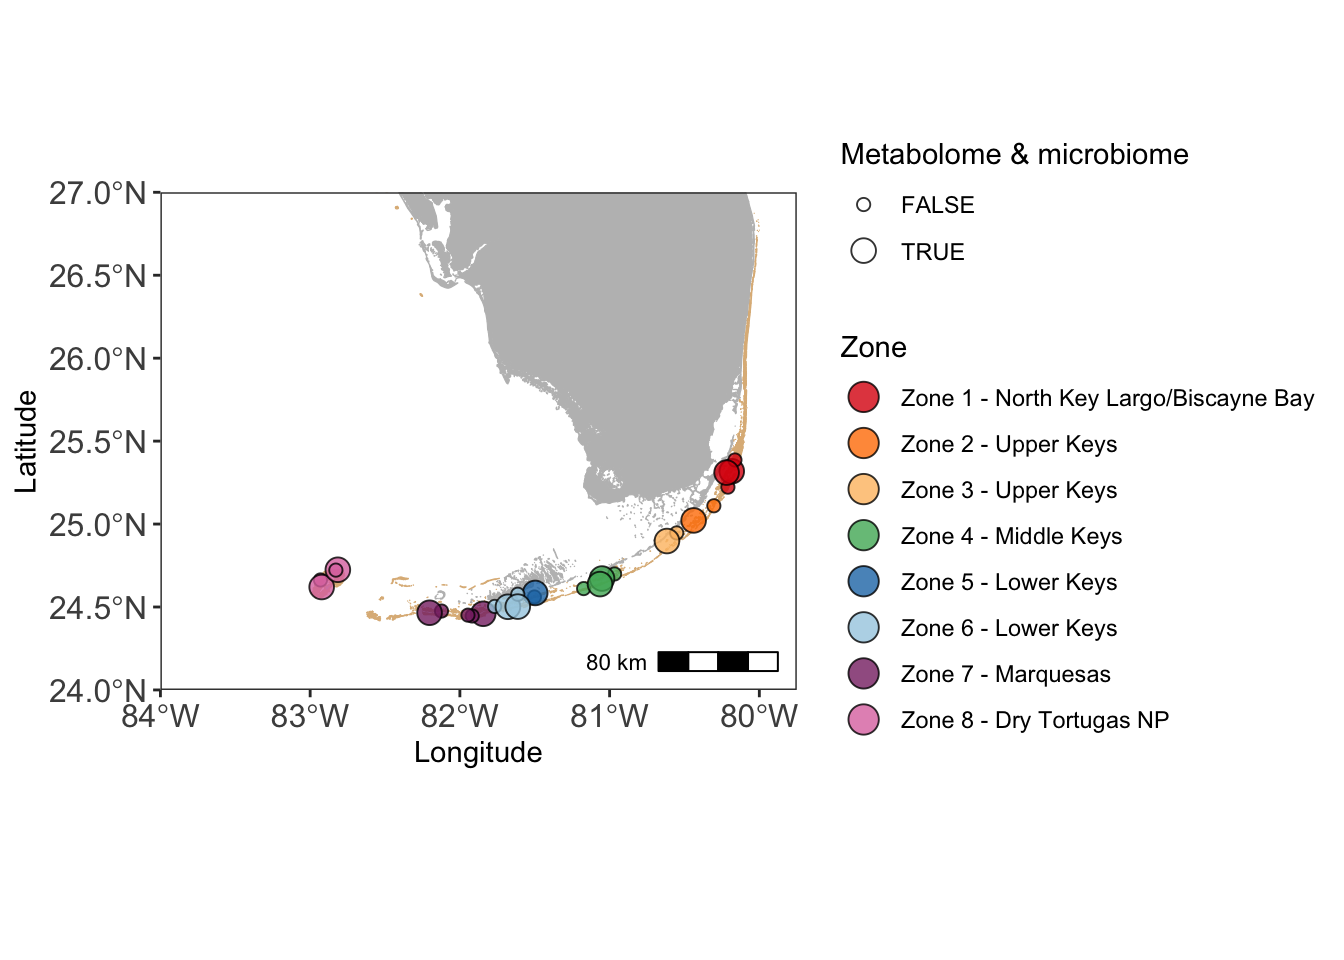
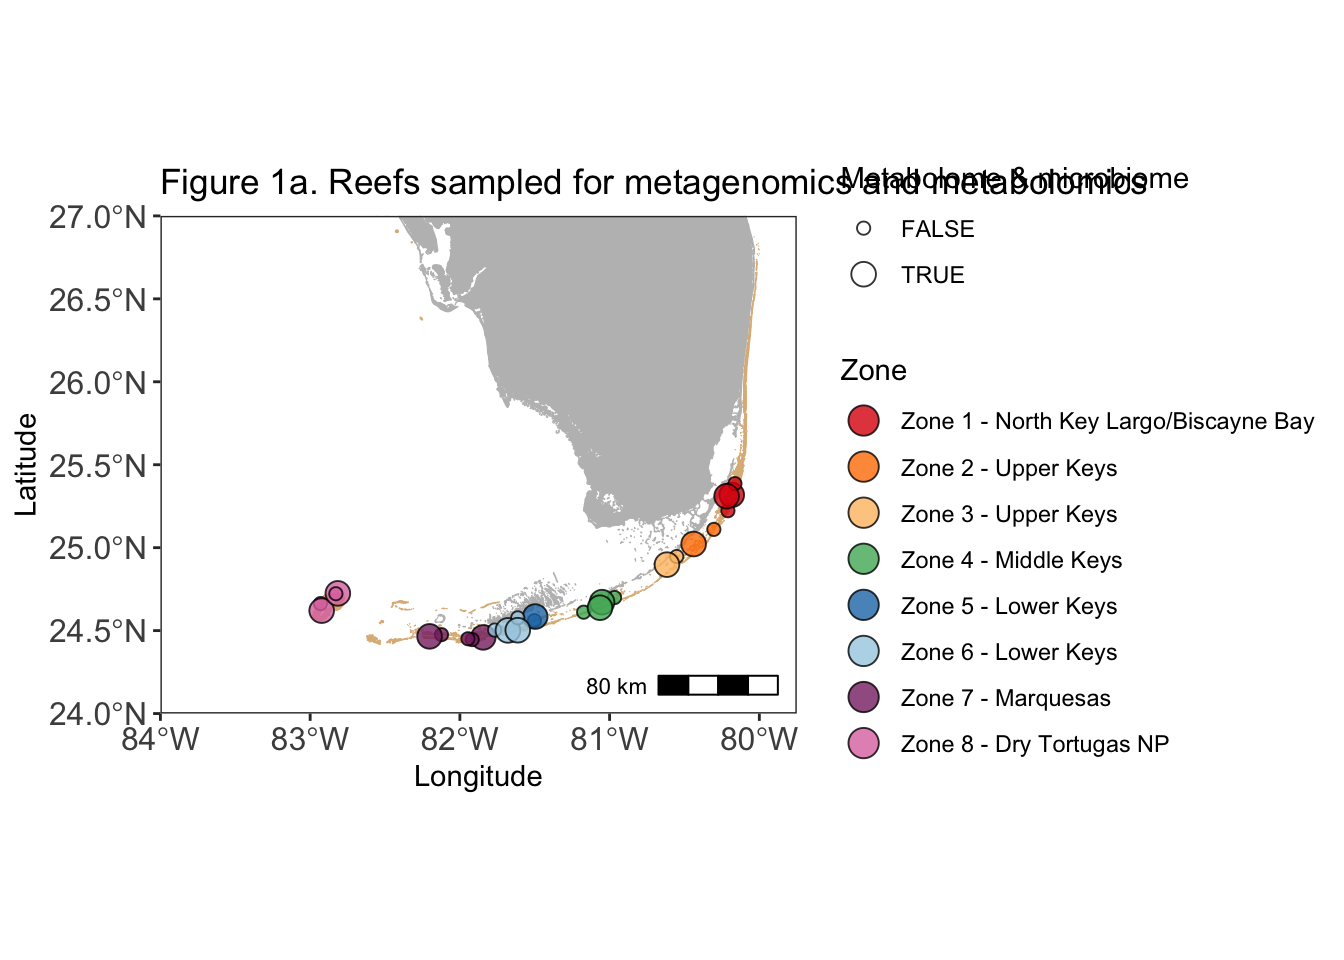
add figure 1 code

diff --git a/Code_to_reproduce_figures.md b/Code_to_reproduce_figures.md
@@ -6,10 +6,15 @@ date: "2023-02-14"
 output:
   html_document:
     keep_md: true
+    toc: true
+    toc_depth: 3
+    number_sections: true
+    theme: united
 ---
 
 
 
+# Setup
 ### Install necessary packages
 
 
@@ -24,6 +29,7 @@ library(tidyverse); packageVersion("tidyverse")
 library(lubridate); packageVersion("lubridate")
 
 # For microbiome/metagenome analysis
+library(vegan); packageVersion("vegan")
 
 # For visualization
 library(ggplot2); packageVersion("ggplot2")
@@ -35,8 +41,8 @@ theme_set(theme_bw()) # get rid of the gray background
 These tables are required for the subsequent analyses. Load **all** of them prior to generating figures. These tables are generated by the `Code_to_prep_data` document found at **THIS LINK NEEDS TO BE ADDED**. 
 
 The shapefiles for making the map can be downloaded at the following links:
-United States and Territories: https://earthworks.stanford.edu/catalog/stanford-vt021tk4894 
-Florida Hard Bottom and Coral Habitats: https://geodata.myfwc.com/datasets/myfwc::coral-and-hard-bottom-habitats-in-florida/about
+United States and Territories <https://earthworks.stanford.edu/catalog/stanford-vt021tk4894> 
+Florida Hard Bottom and Coral Habitats <https://geodata.myfwc.com/datasets/myfwc::coral-and-hard-bottom-habitats-in-florida/about>
 
 
 ```r
@@ -46,6 +52,38 @@ metadata <- read.table("data/FLK2019_environmental_data_for_R.txt", sep = "\t", 
 # path to the shapefiles. Download the shapefiles linked above and change the path to use this code
 usa <- st_read("~/Documents/Apprill_lab/USVI_Projects/TideExpt/USVItideGitHub/Shapefile_for_Map/", "vt021tk4894") 
 fcr <- st_read("~/Google Drive (cbecker@whoi.edu) (not syncing)/Alucia 2019/Site Maps/Coral_and_Hard_Bottom_Habitats_in_Florida/")
+```
+
+Taxonomic microbiome data (16S rRNA gene abundances)
+Import the data that has been filtered for contaminants and low abundance reads
+
+```r
+ASV_16S <- read.table("data/ASV_MiSeq_nochloromito.filt.txt", sep = "\t", row.names = 1, header = TRUE)
+taxa_16S <- as.matrix(read.table("data/taxonomy_MiSeq_nochloromito.filt.txt", sep = "\t", row.names = 1, header = TRUE))
+metadata_16S <- read.table("data/metadata_MiSeq_16S.txt", sep = "\t", header = TRUE)
+```
+
+Functional metagenome data (shotgun metagenomics)
+Import the data that has already been low-abundance filtered
+
+```r
+count_MG <- read.delim("data/Fxn_Count_low-abund-filt.txt", sep = "\t", header = TRUE, row.names = 1)
+colnames(count_MG) <- str_replace_all(colnames(count_MG), pattern = "[X]", "") #remove the X from column names
+
+fxns_MG <- as.matrix(read.table("data/Fxn_low-abund-filt.txt", sep = "\t", row.names = 1, header = TRUE, na.strings = "NA"))
+metadata_MG <- read.table("data/Fxn_metadata-filt.txt", sep = "\t", header = TRUE, row.names = 1)
+class(metadata_MG$Sample) <- "character"
+```
+
+### Generate functions used in analysis
+
+```r
+#For Bray-Curtis NMDS, write a function that will turn data into relatuve abundances
+relabund <- function(sample) {
+  x = sample/sum(sample)
+  x = x*100
+  return(x)
+}
 ```
 
 
@@ -70,7 +108,7 @@ ggplot() +
   coord_sf(xlim = c(-84, -79.75), ylim = c(24, 27), expand = FALSE) +
   annotation_scale(location = "br", width_hint = 0.2) +
   theme(panel.grid.major = element_blank(), panel.background = element_rect(fill = "white")) +
-  labs(x = "Longitude", y = "Latitude", fill = "Zone", size = "Metabolome & microbiome") +
+  labs(x = "Longitude", y = "Latitude", fill = "Zone", size = "Metabolome & microbiome", title = "Figure 1a. Reefs sampled for metagenomics and metabolomics") +
   theme(axis.text = element_text(size = 12)) +
   scale_fill_manual(values = rainbowpal) +
   scale_size_manual(values = c(2, 4)) +
@@ -88,7 +126,7 @@ ggplot() +
   coord_sf(xlim = c(-83.25, -79.75), ylim = c(24, 27), expand = FALSE) +
   annotation_scale(location = "br", width_hint = 0.2) +
   theme(panel.grid.major = element_blank(), panel.background = element_rect(fill = "white")) +
-  labs(x = "Longitude", y = "Latitude", fill = "Zone") +
+  labs(x = "Longitude", y = "Latitude", fill = "Zone", title = "Figure 2a. Reefs (87) sampled for environmental data") +
   theme(axis.text = element_text(size = 12)) +
   scale_fill_manual(values = rainbowpal) +
   guides(fill = guide_legend(override.aes = list(size = 5)))
@@ -105,7 +143,7 @@ ggplot() +
   coord_sf(xlim = c(-83.25, -79.75), ylim = c(24, 27), expand = FALSE) +
   annotation_scale(location = "br", width_hint = 0.2) +
   theme(panel.grid.major = element_blank(), panel.background = element_rect(fill = "white")) +
-  labs(x = "Longitude", y = "Latitude", fill = "Zone") +
+  labs(x = "Longitude", y = "Latitude", fill = "Zone", title = "Supplementary Figure S4a - reefs with photomosaics") +
   theme(axis.text = element_text(size = 12)) +
   scale_fill_manual(values = rainbowpal) +
   guides(fill = guide_legend(override.aes = list(size = 5)))
@@ -115,7 +153,216 @@ ggplot() +
 
 # Figure 1 and Table 1
 
-### Distance-based redundancy analysis (dbRDA) reveals seawater microbiomes and metabolomes are explained by Florida’s Coral Reef biogeography and measured reef microbial and environmental parameters
+**Distance-based redundancy analysis (dbRDA) reveals seawater microbiomes and metabolomes are explained by Florida’s Coral Reef biogeography and measured reef microbial and environmental parameters**
 
-a) Map of 27 coral reefs (out of 85 reefs visited in total) sampled across 8 color-coded zones for either both seawater metabolomes and microbiomes (13 reefs) or only seawater microbiomes (27 reefs total) during June 2019. The dbRDA include (b) reef water taxonomic microbiome via 16S rRNA gene sequencing of Bacteria and Archaea, (c) functional microbiome via shotgun metagenomics, (d) targeted metabolomes, (e) untargeted metabolomes that ionized in negative mode, and (f) untargeted metabolomes that ionized in positive mode. Syn. = Synechococcus, Pro. = Prochlorococcus, Picoeuk. = picoeukaryotes, SCTLD = stony coral tissue loss disease, TOC = total organic carbon, Het. microbes = heterotrophic microbes.
+**Figure 1.** a) Map of 27 coral reefs (out of 85 reefs visited in total) sampled across 8 color-coded zones for either both seawater metabolomes and microbiomes (13 reefs) or only seawater microbiomes (27 reefs total) during June 2019. The dbRDA include (b) reef water taxonomic microbiome via 16S rRNA gene sequencing of Bacteria and Archaea, (c) functional microbiome via shotgun metagenomics, (d) targeted metabolomes, (e) untargeted metabolomes that ionized in negative mode, and (f) untargeted metabolomes that ionized in positive mode. Syn. = Synechococcus, Pro. = Prochlorococcus, Picoeuk. = picoeukaryotes, SCTLD = stony coral tissue loss disease, TOC = total organic carbon, Het. microbes = heterotrophic microbes.
+
+### Figure 1b. Taxonomic microbiome (16S rRNA gene)
+
+```r
+#include only metadata variables you want for the dbRDA analysis
+metaRDA <- metadata_16S %>%
+  select(Sample, Date, dayoftrip, Zone, ZoneNum, hbact, syn, pro, peuk, npoc, Dissolved.Oxygen.at.depth.percent.sat, SCTLDprevalence, Hard_coral, Fleshy_Macroalgae, Soft_coral, Turf_Algae, Sponge) %>%
+  filter(!is.na(ZoneNum)) %>%
+  mutate(MA_turf = Fleshy_Macroalgae + Turf_Algae)
+
+#Remove the samples from the ASV table that are no longer represented in the metadata tibble
+idx <- match(metaRDA$Sample, rownames(ASV_16S))
+ASV.sw <- ASV_16S[idx, ]
+
+ASV.sw <- apply(ASV.sw, 1, relabund) #Apply the relative abundance function (previous chunk) to each row (sample) in the ASV data frame
+ASV.sw <- ASV.sw[rowSums(ASV.sw) != 0, ] #get rid of ASVs that have no abundance in any samples
+ASV.sw <- t(ASV.sw) #make sure sample names are rows
+ASV.sw.log <- log(ASV.sw+1) #Log transform the realtive abundance data, where I add a 1 pseudocount to everything
+
+set.seed(100)
+dbRDA = capscale(ASV.sw.log ~ Zone + SCTLDprevalence + npoc + hbact + pro + syn + peuk + Hard_coral + MA_turf + Soft_coral + Sponge, metaRDA, distance = "bray", na.action = na.exclude) #13 explanatory environmental variables
+
+anova <- anova(dbRDA, by="terms", permu=999) #test for sig. environ. variables
+anova #check results
+```
+
+```
+## Permutation test for capscale under reduced model
+## Terms added sequentially (first to last)
+## Permutation: free
+## Number of permutations: 999
+## 
+## Model: capscale(formula = ASV.sw.log ~ Zone + SCTLDprevalence + npoc + hbact + pro + syn + peuk + Hard_coral + MA_turf + Soft_coral + Sponge, data = metaRDA, distance = "bray", na.action = na.exclude)
+##                 Df SumOfSqs       F Pr(>F)    
+## Zone             1  1.82563 92.9527  0.001 ***
+## SCTLDprevalence  1  0.10344  5.2665  0.006 ** 
+## npoc             1  1.13174 57.6229  0.001 ***
+## hbact            1  0.64539 32.8603  0.001 ***
+## pro              1  0.92642 47.1693  0.001 ***
+## syn              1  0.39435 20.0787  0.001 ***
+## peuk             1  0.08595  4.3759  0.019 *  
+## Hard_coral       1  0.08011  4.0788  0.027 *  
+## MA_turf          1  0.02221  1.1307  0.299    
+## Soft_coral       1  0.05970  3.0397  0.040 *  
+## Sponge           1  0.05443  2.7712  0.054 .  
+## Residual        43  0.84454                   
+## ---
+## Signif. codes:  0 '***' 0.001 '**' 0.01 '*' 0.05 '.' 0.1 ' ' 1
+```
+
+```r
+# How many dimensions explain the data
+barplot(dbRDA$CCA$eig)
+```
+
+<img src="figures/fig-Taxonomic microbiome dbRDA-1.png" width="672" />
+
+```r
+#which variables are significant?
+#At pval of <0.05, all are significant except Turf_Algae and Fleshy_Macroalgae
+#Extract information to plot with ggplot the significant variables and sites and percent explained
+RDA1 <- (dbRDA$CCA$eig[1]/sum(dbRDA$CCA$eig))*100
+RDA2 <- (dbRDA$CCA$eig[2]/sum(dbRDA$CCA$eig))*100
+
+arrowtips <- data.frame(dbRDA$CCA$biplot[,1:2], pval = anova$`Pr(>F)`[1:11], variable = rownames(dbRDA$CCA$biplot)) #extract arrow tip values and add pval result from anova test to make it easy to remove non-significant arrows
+samplepoints <- data.frame(scores(dbRDA)$sites, metadata_16S[1:57,]) #extract sample point information and add in the metadata associated with it
+
+### PLOTTING sample points and arrows that show significant variables (p < 0.05)
+ggplot(samplepoints, aes(x = CAP1, y = CAP2)) +
+  geom_point(data = samplepoints, aes(fill = ZoneNum), size = 5, stroke = 0.5, pch = 21, alpha = 0.8) +
+  geom_segment(data = arrowtips[arrowtips$pval < 0.05, ], aes(x = 0, xend = CAP1, y = 0, yend = CAP2), arrow = arrow(length = unit(0.25, "cm")), colour = "darkgray") +
+  coord_fixed() +
+  geom_text(data = arrowtips[arrowtips$pval < 0.05, ], aes(x = CAP1-0.03, y = CAP2-0.03, label = variable), size = 4) + #I include text here, but for publication I comment out this line and place labels in manually
+  labs(x = paste0("dbRDA1 [", RDA1, "%]"), y = paste0("dbRDA2 [",RDA2, "%]"), title = "Figure 1b. Taxonomic microbiome (16S rRNA gene)") +
+  scale_fill_manual(values = c("#DC050C", "#FF7F00", "#FDBF6F", "#4EB265", "#1F78B4", "#A6CEE3", "#882E72", "#DE77AE")) +
+    theme(plot.background = element_blank(),
+    panel.grid.major = element_blank(),
+    panel.grid.minor = element_blank())
+```
+
+```
+## Warning: Removed 2 rows containing missing values (`geom_point()`).
+```
+
+<img src="figures/fig-Taxonomic microbiome dbRDA-2.png" width="672" />
+
+### Figure 1c. Functional microbiome (metagenomics)
+
+```r
+count_MG <- as.matrix(t(count_MG)) #make samples rows
+countRA <- apply(count_MG, 1, relabund) #Apply the relative abundance function to each row (sample) in the count data frame
+countRA <- t(countRA) #make sure sample names are rows
+log.countRA <- log(countRA+1) #Log transform the realtive abundance data to variance stabilize it, where I add a 1 pseudocount to everything
+
+#include only metadata variables you want for the dbRDA analysis
+metaRDA_MG <- metadata_MG %>%
+  select(Sample, Date, dayoftrip, Zone, ZoneNum, hbact, syn, pro, peuk, npoc, Dissolved.Oxygen.at.depth.percent.sat, SCTLDprevalence, Hard_coral, Fleshy_Macroalgae, Soft_coral, Turf_Algae, Sponge) %>%
+  mutate(MA_turf = Fleshy_Macroalgae + Turf_Algae)
+
+#Do dbRDA function
+set.seed(100)
+dbRDA_MG = capscale(log.countRA ~ Zone + SCTLDprevalence + npoc + hbact + pro + syn + peuk + Hard_coral + MA_turf + Soft_coral + Sponge, metaRDA_MG, distance = "bray", na.action = na.exclude) #12 explanatory environmental variables
+
+anova <- anova(dbRDA_MG, by="terms", permu=999) #test for sig. environ. variables
+anova #check results
+```
+
+```
+## Permutation test for capscale under reduced model
+## Terms added sequentially (first to last)
+## Permutation: free
+## Number of permutations: 999
+## 
+## Model: capscale(formula = log.countRA ~ Zone + SCTLDprevalence + npoc + hbact + pro + syn + peuk + Hard_coral + MA_turf + Soft_coral + Sponge, data = metaRDA_MG, distance = "bray", na.action = na.exclude)
+##                 Df SumOfSqs       F Pr(>F)    
+## Zone             1  2.35273 61.2385  0.001 ***
+## SCTLDprevalence  1  0.12360  3.2171  0.027 *  
+## npoc             1  1.48304 38.6017  0.001 ***
+## hbact            1  0.71356 18.5731  0.001 ***
+## pro              1  1.26448 32.9128  0.001 ***
+## syn              1  0.45980 11.9680  0.001 ***
+## peuk             1  0.14162  3.6861  0.029 *  
+## Hard_coral       1  0.08911  2.3195  0.089 .  
+## MA_turf          1  0.05764  1.5002  0.192    
+## Soft_coral       1  0.10389  2.7041  0.060 .  
+## Sponge           1  0.09353  2.4344  0.078 .  
+## Residual        33  1.26783                   
+## ---
+## Signif. codes:  0 '***' 0.001 '**' 0.01 '*' 0.05 '.' 0.1 ' ' 1
+```
+
+```r
+# How many dimensions explain the data
+barplot(dbRDA_MG$CCA$eig)
+```
+
+<img src="figures/fig-Functional microbiome dbRDA-1.png" width="672" />
+
+```r
+#which variables are significant?
+#At pval of <0.05, all are significant except Hard_coral, Turf_Algae and Fleshy_Macroalgae
+#Extract information to plot with ggplot the significant variables and sites and percent explained
+RDA1 <- (dbRDA_MG$CCA$eig[1]/sum(dbRDA_MG$CCA$eig))*100
+RDA2 <- (dbRDA_MG$CCA$eig[2]/sum(dbRDA_MG$CCA$eig))*100
+
+arrowtips <- data.frame(dbRDA_MG$CCA$biplot[,1:2], pval = anova$`Pr(>F)`[1:11], variable = rownames(dbRDA$CCA$biplot)) #extract arrow tip values and add pval result from anova test to make it easy to remove non-significant arrows
+samplepoints <- data.frame(scores(dbRDA_MG)$sites, metadata_MG) #extract sample point information and add in the metadata associated with it
+
+### PLOTTING sample points and arrows that show significant variables (p < 0.05)
+ggplot(samplepoints, aes(x = CAP1*(-1), y = CAP2*(-1))) +
+  geom_point(data = samplepoints, aes(fill = ZoneNum), size = 5, stroke = 0.5, pch = 21, alpha = 0.8) +
+  geom_segment(data = arrowtips[arrowtips$pval < 0.05, ], aes(x = 0, xend = CAP1*(-1), y = 0, yend = CAP2*(-1)), arrow = arrow(length = unit(0.25, "cm")), colour = "darkgray") +
+  coord_fixed() +
+  geom_text(data = arrowtips[arrowtips$pval < 0.05, ], aes(x = CAP1*(-1), y = CAP2*(-1), label = variable), size = 4) + #I include text here, but for publication I comment out this line and place labels in manually
+  labs(x = paste0("dbRDA1 [", RDA1, "%]"), y = paste0("dbRDA2 [",RDA2, "%]"), title = "Figure 1c. Functional microbiome (metagenomics)") +
+  scale_fill_manual(values = c("#DC050C", "#FF7F00", "#FDBF6F", "#4EB265", "#1F78B4", "#A6CEE3", "#882E72", "#DE77AE")) +
+    theme(plot.background = element_blank(),
+    panel.grid.major = element_blank(),
+    panel.grid.minor = element_blank())
+```
+
+```
+## Warning: Removed 2 rows containing missing values (`geom_point()`).
+```
+
+<img src="figures/fig-Functional microbiome dbRDA-2.png" width="672" />
+
+### Figure 1d. Targeted metabolome
+
+
+### Figure 1e. Untargeted metabolome - negative ion mode
+
+
+
+### Figure 1f. Untargeted metabolome - positive ion mode
+
+
+
+# Figure 2
+
+**Zones in Florida’s Coral Reef (FCR) have significantly different disease prevalence, microbial  abundances and organic carbon and silicate concentrations.**
+
+**Figure 2.** a) Map of all 85 reefs sampled for environmental variables are colored by zone and placed above FCR (tan). Environmental variables that changed significantly by zone include b) stony coral tissue loss disease prevalence (percent of live coral), (c) ratio of heterotrophic to photosynthetic microbial cells, (d) total organic carbon concentration, (e) heterotrophic microbial abundances (unpigmented bacteria and archaea), (f) Prochlorococcus abundances, (g) Synechococcus abundances, (h) picoeukaryote abundances, and (i) silicate concentration was significantly different between FCR zones as a result of a Kruskal-Wallis test and less than the Bonferroni-corrected p-value of 0.00192. Asterisks denote the zone was significantly different than all other zones tested in the pairwise Wilcoxon rank sum test (Benjamini-Hochberg adjusted p<0.05). 
+
+
+
+# Figure 3
+
+**Zones in Florida’s Coral Reef (FCR) harbor significantly different concentrations of dissolved metabolites**
+
+**Figure 3.** a) 5’-methylthioadenosine (MTA) and (b) taurocholic acid. Concentrations were significantly different between FCR zones (Kruskal-Wallis test, Bonferroni-corrected p < 0.00128). Heatmaps of z-score standardized feature peak intensities depict untargeted metabolites that ionized in (c) negative or (d) positive ion modes that were significantly different across zones (ANOVA or Kruskal-Wallis test, significant at Bonferroni-corrected p, See SI Methods). Colors to the left of the heatmap indicate reef zone. Adjacent zones 5 & 6 in the Lower Keys and zones 2 & 3 in the Upper Keys were combined to ensure at least 2 reefs were within each group for statistical tests. 
+
+
+
+# Figure 4
+
+**Indicator microbial taxa and functional genes across Florida’s Coral Reef zones.**
+
+**Figure 4.** a) Relative abundance across all reefs of amplicon sequence variants (ASVs) diagnostic of individual reef zones, and ASV identifier on the x-axis. b) Relative abundance across all reefs of bacterial functional genes diagnostic of individual reef zones. Number of functional genes indicative in each grouping labeled on x axis, with full summary of genes in Supplementary File 3. All indicator taxa and functional genes determined by indicator value analysis (A ≥ 0.6, B ≥ 0.6, p < 0.05). Taxa and functional genes are grouped by the associated zone they are indicative of, which is boxed in the zone color within the heatmaps.
+
+
+
+# Figure 5. 
+
+**Coral and near-coral seawater taxonomic microbiomes are influenced by biogeography.**
+
+**Figure 5.** Principal coordinates analysis (PCoA) of (a) coral and (b) near-coral seawater taxonomic microbiome beta diversity (Bray-Curtis dissimilarity). Results from a permutational analysis of variance (PERMANOVA) displayed above each graph indicate coral microbiomes are significantly different across zones, coral species, and between apparently healthy and diseased corals, while near-coral seawater microbiomes are significantly different across zones and coral species (p < 0.05). C) 12 amplicon sequence variants (ASVs) significantly differed relative to zone 3, within apparently healthy coral microbiomes as identified by differential abundance tests (Benjamini-Hochberg adjusted p < 0.05, see SI methods). 
+
+
 
